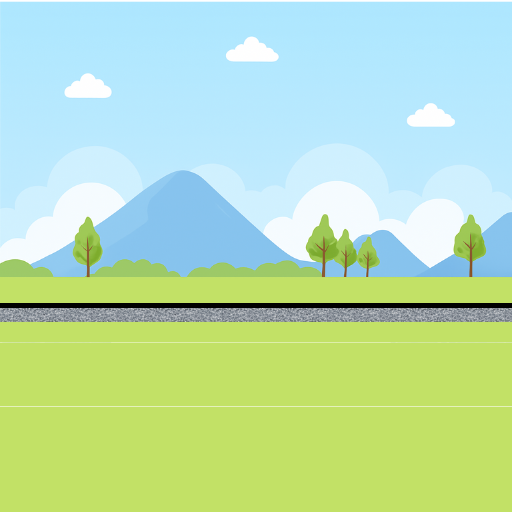
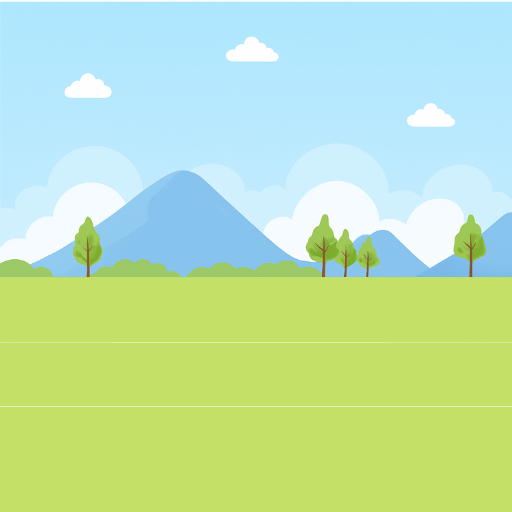
mbledos

Changed region(s): [[0.0, 0.5938, 1.0, 0.6562]]

diff --git a/lib/screens/customer/utama/tiket/pilih_gerbong_screen.dart b/lib/screens/customer/utama/tiket/pilih_gerbong_screen.dart
@@ -133,54 +133,73 @@ class _PilihGerbongScreenState extends State<PilihGerbongScreen> {
   }
 
   Widget _buildTrainLayoutVisual() {
+    const double tinggiGambarRel = 150.0;
+
     return Stack(
       fit: StackFit.expand,
       children: [
-        // Background image sudah dari parent
-        Column(
-          crossAxisAlignment: CrossAxisAlignment.start,
-          children: [
-            Padding(
-              padding: const EdgeInsets.fromLTRB(16, 24, 16, 0),
-              child: Column(
-                crossAxisAlignment: CrossAxisAlignment.start,
-                children: [
-                  Text(
-                    "Denah Rangkaian Kereta",
-                    style: Theme.of(context).textTheme.titleLarge?.copyWith(
-                      fontWeight: FontWeight.bold,
-                      color: Colors.black.withAlpha(204),
-                    ),
-                  ),
-                  const SizedBox(height: 4),
-                  Text(
-                    "Geser untuk melihat semua gerbong. Pilih gerbong yang menyala untuk menentukan kursi.",
-                    style: TextStyle(color: Colors.grey.shade800),
-                  ),
-                ],
-              ),
-            ),
-            const SizedBox(height: 229),
-            Padding(
-              padding: const EdgeInsets.only(bottom: 24.0),
-              child: SingleChildScrollView(
-                scrollDirection: Axis.horizontal,
-                padding: const EdgeInsets.symmetric(horizontal: 16.0),
-                child: Row(
-                  crossAxisAlignment: CrossAxisAlignment.end,
-                  children: [
-                    _buildLocomotiveWidget(),
-                    ..._seluruhRangkaianInfo.map(_buildCarriageImageWidget).toList(),
-                  ],
+        Positioned.fill(
+          child: Image.asset(
+            'images/Simulasi.png',
+            fit: BoxFit.cover,
+            alignment: Alignment.bottomCenter,
+          ),
+        ),
+
+        Positioned(
+          left: 0,
+          right: 0,
+          bottom: 200,
+          height: tinggiGambarRel,
+          child: Image.asset(
+            'images/rel.png',
+            fit: BoxFit.fill,
+          ),
+        ),
+
+        Positioned(
+          top: 24,
+          left: 16,
+          right: 16,
+          child: Column(
+            mainAxisSize: MainAxisSize.min,
+            crossAxisAlignment: CrossAxisAlignment.start,
+            children: [
+              Text(
+                "Denah Rangkaian Kereta",
+                style: Theme.of(context).textTheme.titleLarge?.copyWith(
+                  fontWeight: FontWeight.bold,
+                  color: Colors.black.withAlpha(204),
                 ),
               ),
+              const SizedBox(height: 4),
+              Text(
+                "Geser untuk melihat semua gerbong...",
+                style: TextStyle(color: Colors.grey.shade800),
+              ),
+            ],
+          ),
+        ),
+
+        Positioned(
+          bottom: tinggiGambarRel - -89,
+          left: 0,
+          right: 0,
+          child: SingleChildScrollView(
+            scrollDirection: Axis.horizontal,
+            padding: const EdgeInsets.symmetric(horizontal: 16.0),
+            child: Row(
+              crossAxisAlignment: CrossAxisAlignment.end,
+              children: [
+                _buildLocomotiveWidget(),
+                ..._seluruhRangkaianInfo.map((info) => _buildCarriageImageWidget(info)).toList(),
+              ],
             ),
-          ],
+          ),
         ),
       ],
     );
   }
-
 
   Widget _buildLocomotiveWidget() {
     return Padding(
